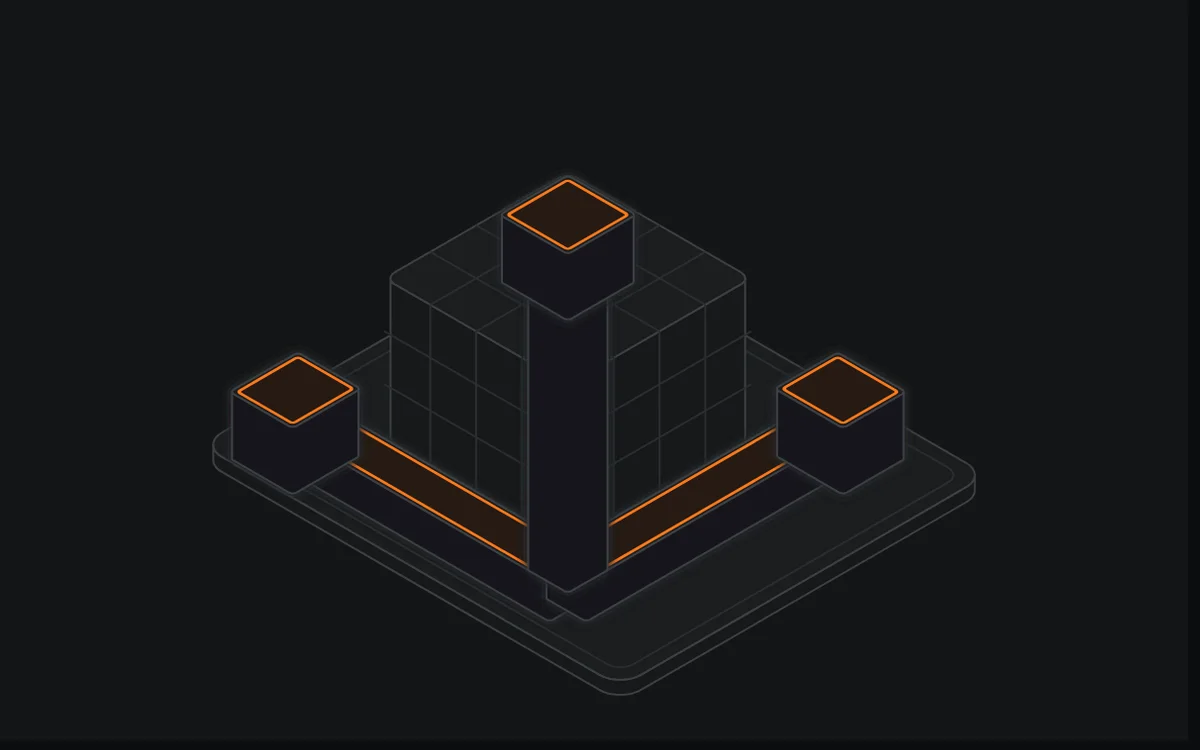
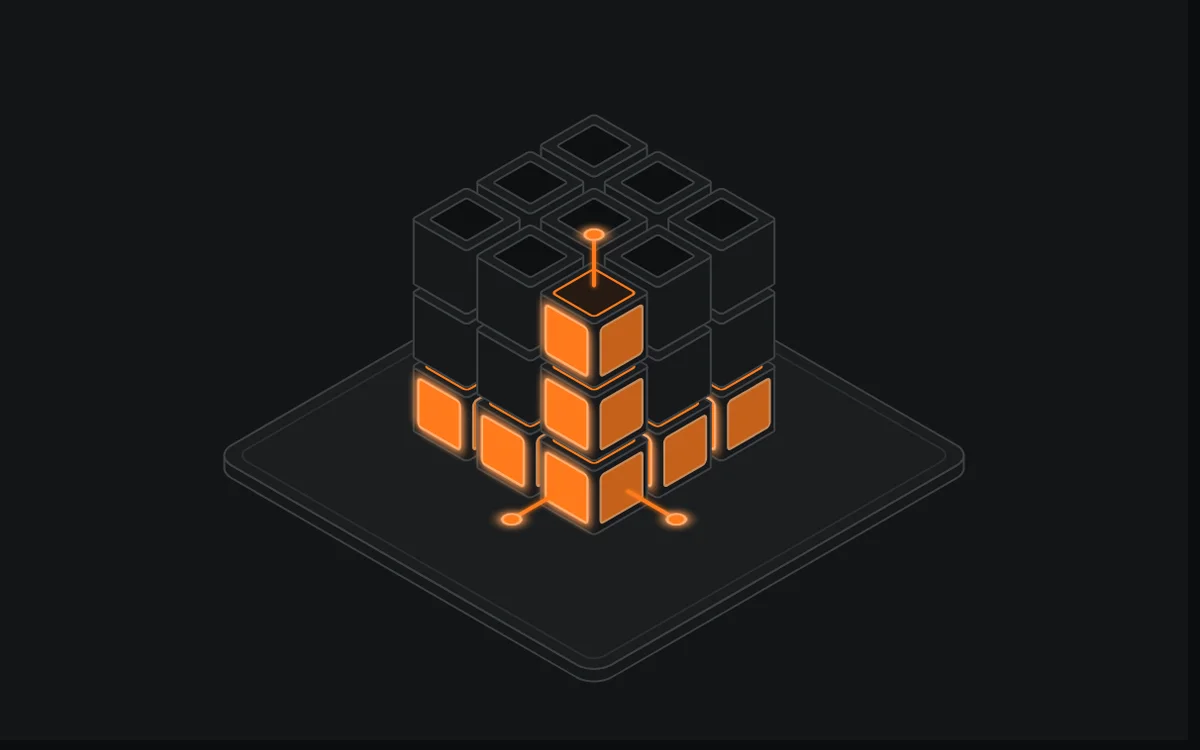
Scale Cube cover: 3x3x3 block cube with the three corner rows lit as axes

diff --git a/tools/covers/covers-b.js b/tools/covers/covers-b.js
@@ -66,25 +66,39 @@ FIGS.push({
   },
 });
 
-// 6 · Scale Cube: a gridded cube whose three axes (x, y, z) are lit bars with lit tips, leaving one corner.
+// 6 · Scale Cube: a 3x3x3 cube of blocks; the three rows meeting at the front corner are lit
+// (x: clone, y: split by function, z: split by data), each continuing as a lit axis with a lit tip.
 FIGS.push({
-  id: 'scale-cube', name: 'Scale Cube', aria: 'Um cubo com os três eixos acesos.',
+  id: 'scale-cube', name: 'Scale Cube', aria: 'Um cubo de 27 blocos; as três fileiras do canto da frente acesas, uma por eixo.',
   mount(stage, api) {
-    const K = api.iso.frame([[0, 0, 0], [320, 0, 0], [0, 280, 0], [320, 280, 0], [130, 130, 270]]);
+    const N = 3, U = 50, G = 8, O = 70, Z0 = 10, E = N * (U + G) - G;    // cell, gap, origin, cube edge
+    const W = O * 2 + E + 40;
+    const K = api.iso.frame([[0, 0, 0], [W, 0, 0], [0, W, 0], [W, W, 0], [O, O, Z0 + E + 50]]);
     const { P, TOP, FRONT, SIDE, box } = K;
-    let s = plateB(K, 320, 280);
-    s += box(100, 100, 10, 140, 140, 140, 8);
-    // Dark gridded faces with slits.
-    const g = n => `<path class="detail" d="${[1, 2, 3].map(i => `M${i * 35} 0 V140 M0 ${i * 35} H140`).join(' ')}"/>`;
-    s += `<g transform="${TOP(100, 100, 150)}">${g()}</g><g transform="${FRONT(100, 240, 150)}">${g()}</g><g transform="${SIDE(240, 240, 150)}">${g()}</g>`;
-    // Axes from the front-bottom corner (240,240,10): x runs left, y runs back, z runs up; lit tip on each.
-    s += litBoxB(K, 40, 232, 10, 210, 32, 26, 3);
-    s += litBoxB(K, 232, 40, 10, 32, 210, 26, 3);
-    s += litBoxB(K, 232, 232, 36, 32, 32, 194, 3);
-    s += litBoxB(K, 16, 222, 6, 48, 52, 44, 3);
-    s += litBoxB(K, 222, 16, 6, 52, 48, 44, 3);
-    s += litBoxB(K, 222, 222, 226, 52, 52, 44, 3);
-    stage.setAttribute('viewBox', cover(K, -0.04)); stage.innerHTML = s;
+    let s = plateB(K, W, W);
+    const cells = [];
+    for (let i = 0; i < N; i++) for (let j = 0; j < N; j++) for (let k = 0; k < N; k++) cells.push([i, j, k]);
+    cells.sort((a, b) => a[0] + a[1] + a[2] - (b[0] + b[1] + b[2]) || a[2] - b[2]);   // iso depth for equal cubes
+    const F = N - 1;
+    for (const [i, j, k] of cells) {
+      const lit = (j === F && k === 0) || (i === F && k === 0) || (i === F && j === F);
+      const x = O + i * (U + G), y = O + j * (U + G), z = Z0 + k * (U + G);
+      s += box(x, y, z, U, U, U, 3);
+      if (lit) {
+        s += `<g transform="${FRONT(x, y + U, z + U)}"><rect class="lit" filter="url(#glow)" x="6" y="6" width="${U - 12}" height="${U - 12}" rx="3"/></g>`;
+        s += `<g transform="${SIDE(x + U, y + U, z + U)}"><rect class="lit" opacity=".75" x="6" y="6" width="${U - 12}" height="${U - 12}" rx="3"/></g>`;
+        s += `<g transform="${TOP(x, y, z + U)}"><rect class="glass hot" x="6" y="6" width="${U - 12}" height="${U - 12}" rx="3"/></g>`;
+      } else {
+        s += `<g transform="${TOP(x, y, z + U)}"><rect class="face recess" x="8" y="8" width="${U - 16}" height="${U - 16}" rx="2"/></g>`;
+      }
+    }
+    // Axes continue past the cube from the lit rows, each ending in a lit tip.
+    const X1 = O + E, Y1 = O + E, ZT = Z0 + E;
+    const axis = (a, b) => `<path class="wire hot" filter="url(#soft)" d="M${P(...a)} L${P(...b)}"/><g transform="${TOP(b[0] - 6, b[1] - 6, b[2])}"><circle class="lit" filter="url(#glow)" cx="6" cy="6" r="6"/></g>`;
+    s += axis([X1 + 6, Y1 - U / 2, Z0 + U / 2], [X1 + 50, Y1 - U / 2, Z0 + U / 2]);   // x: clones
+    s += axis([X1 - U / 2, Y1 + 6, Z0 + U / 2], [X1 - U / 2, Y1 + 50, Z0 + U / 2]);   // y: functions
+    s += axis([X1 - U / 2, Y1 - U / 2, ZT + 6], [X1 - U / 2, Y1 - U / 2, ZT + 46]);   // z: data
+    stage.setAttribute('viewBox', cover(K, -0.02)); stage.innerHTML = s;
     return {};
   },
 });
